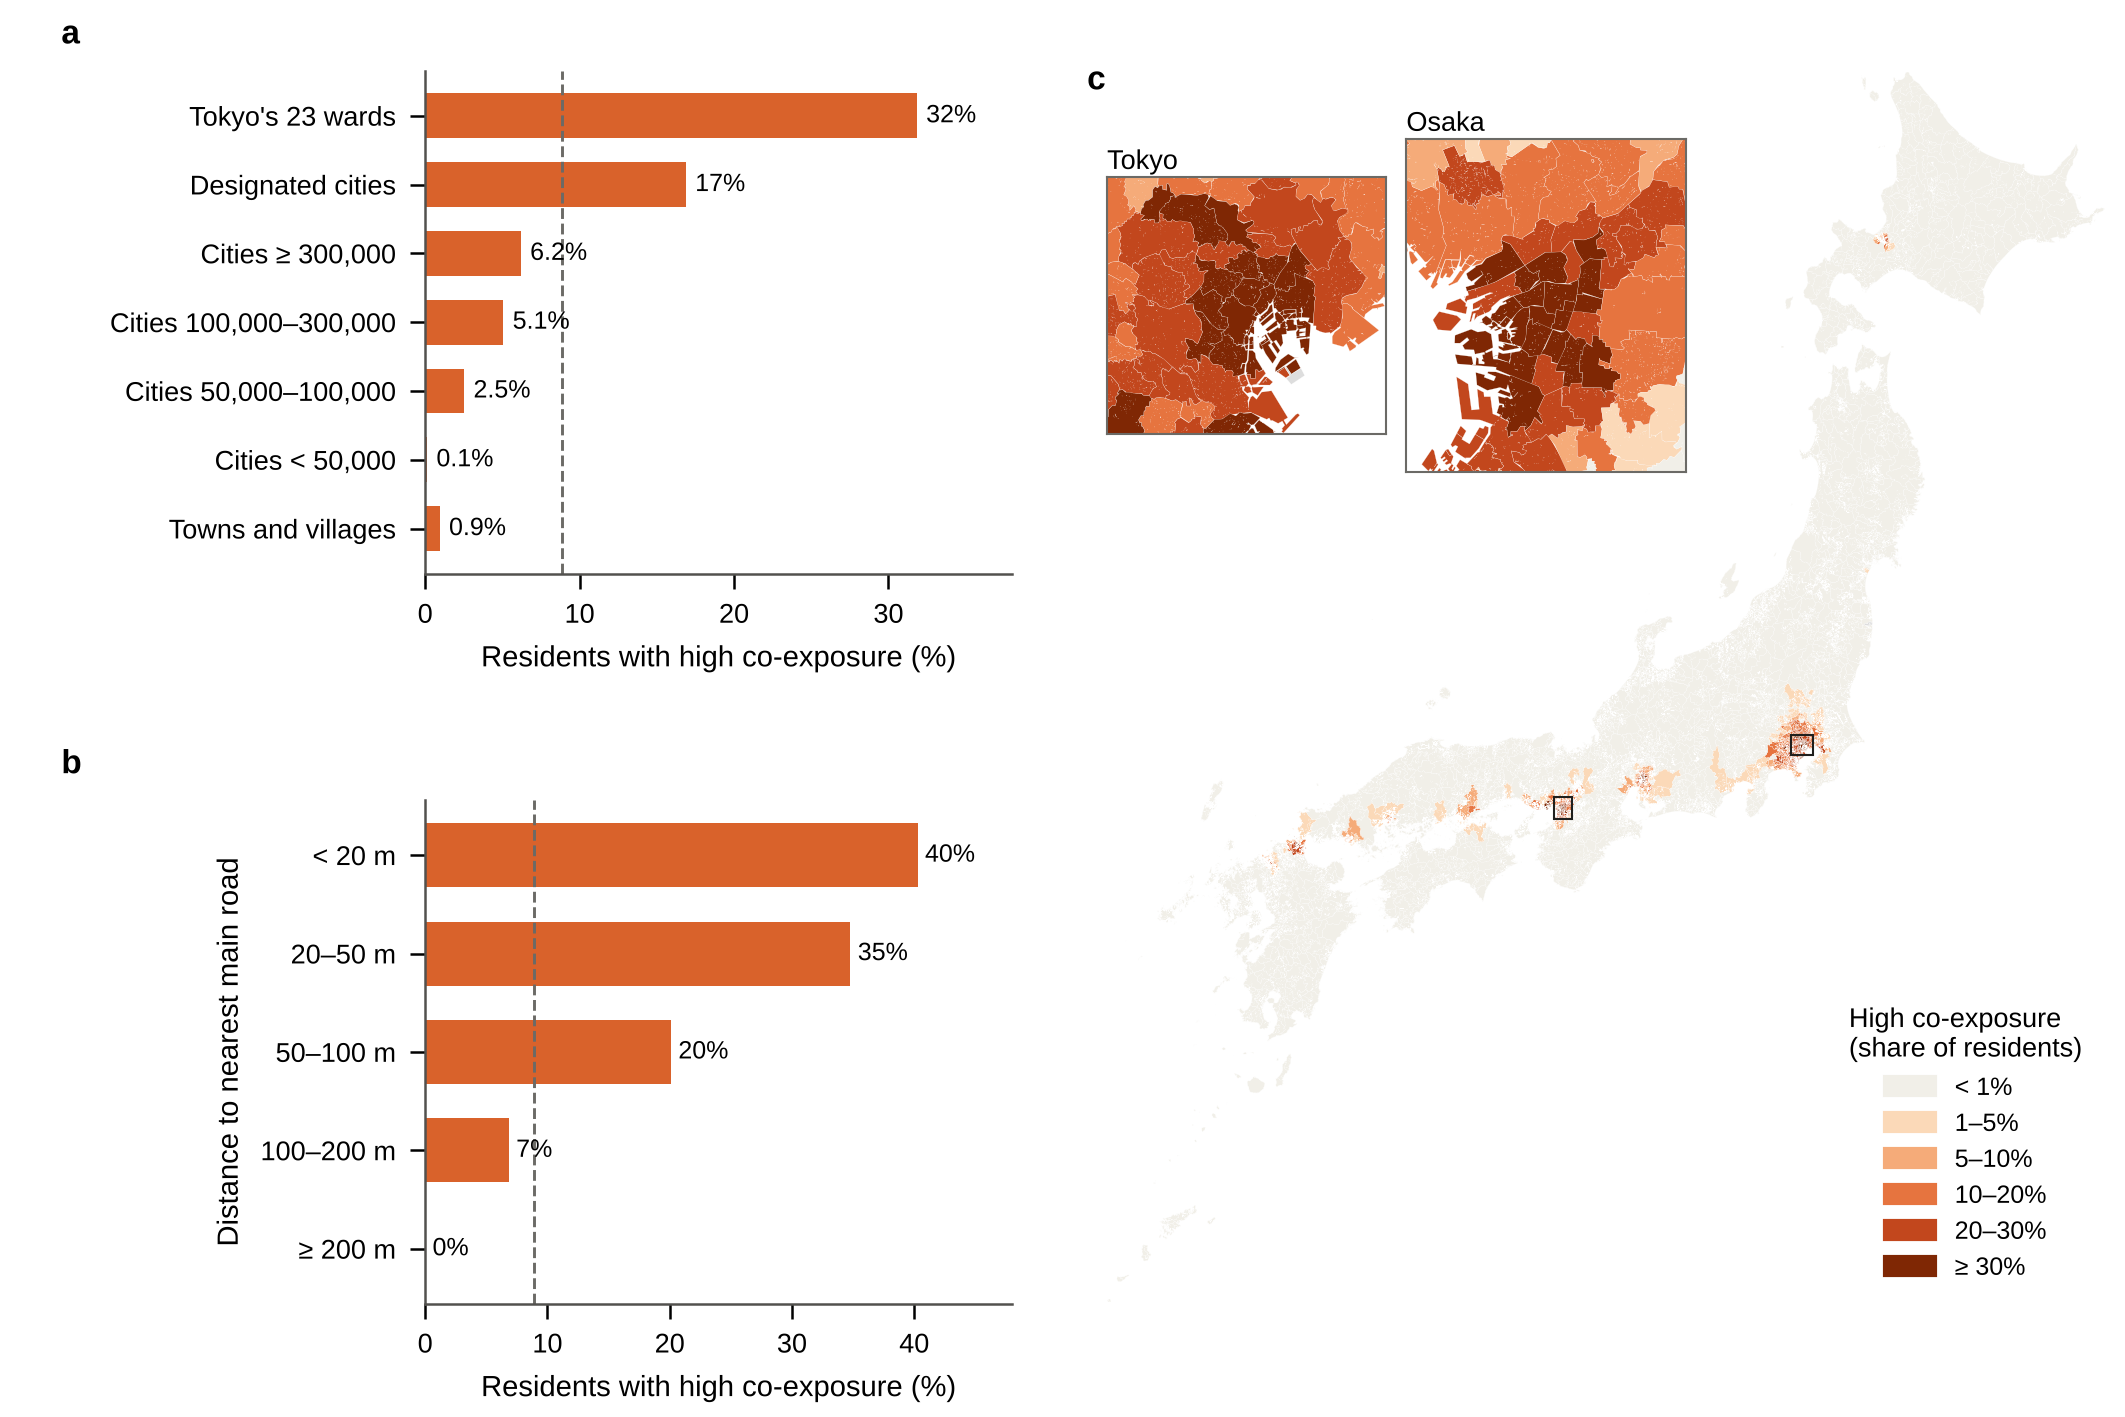
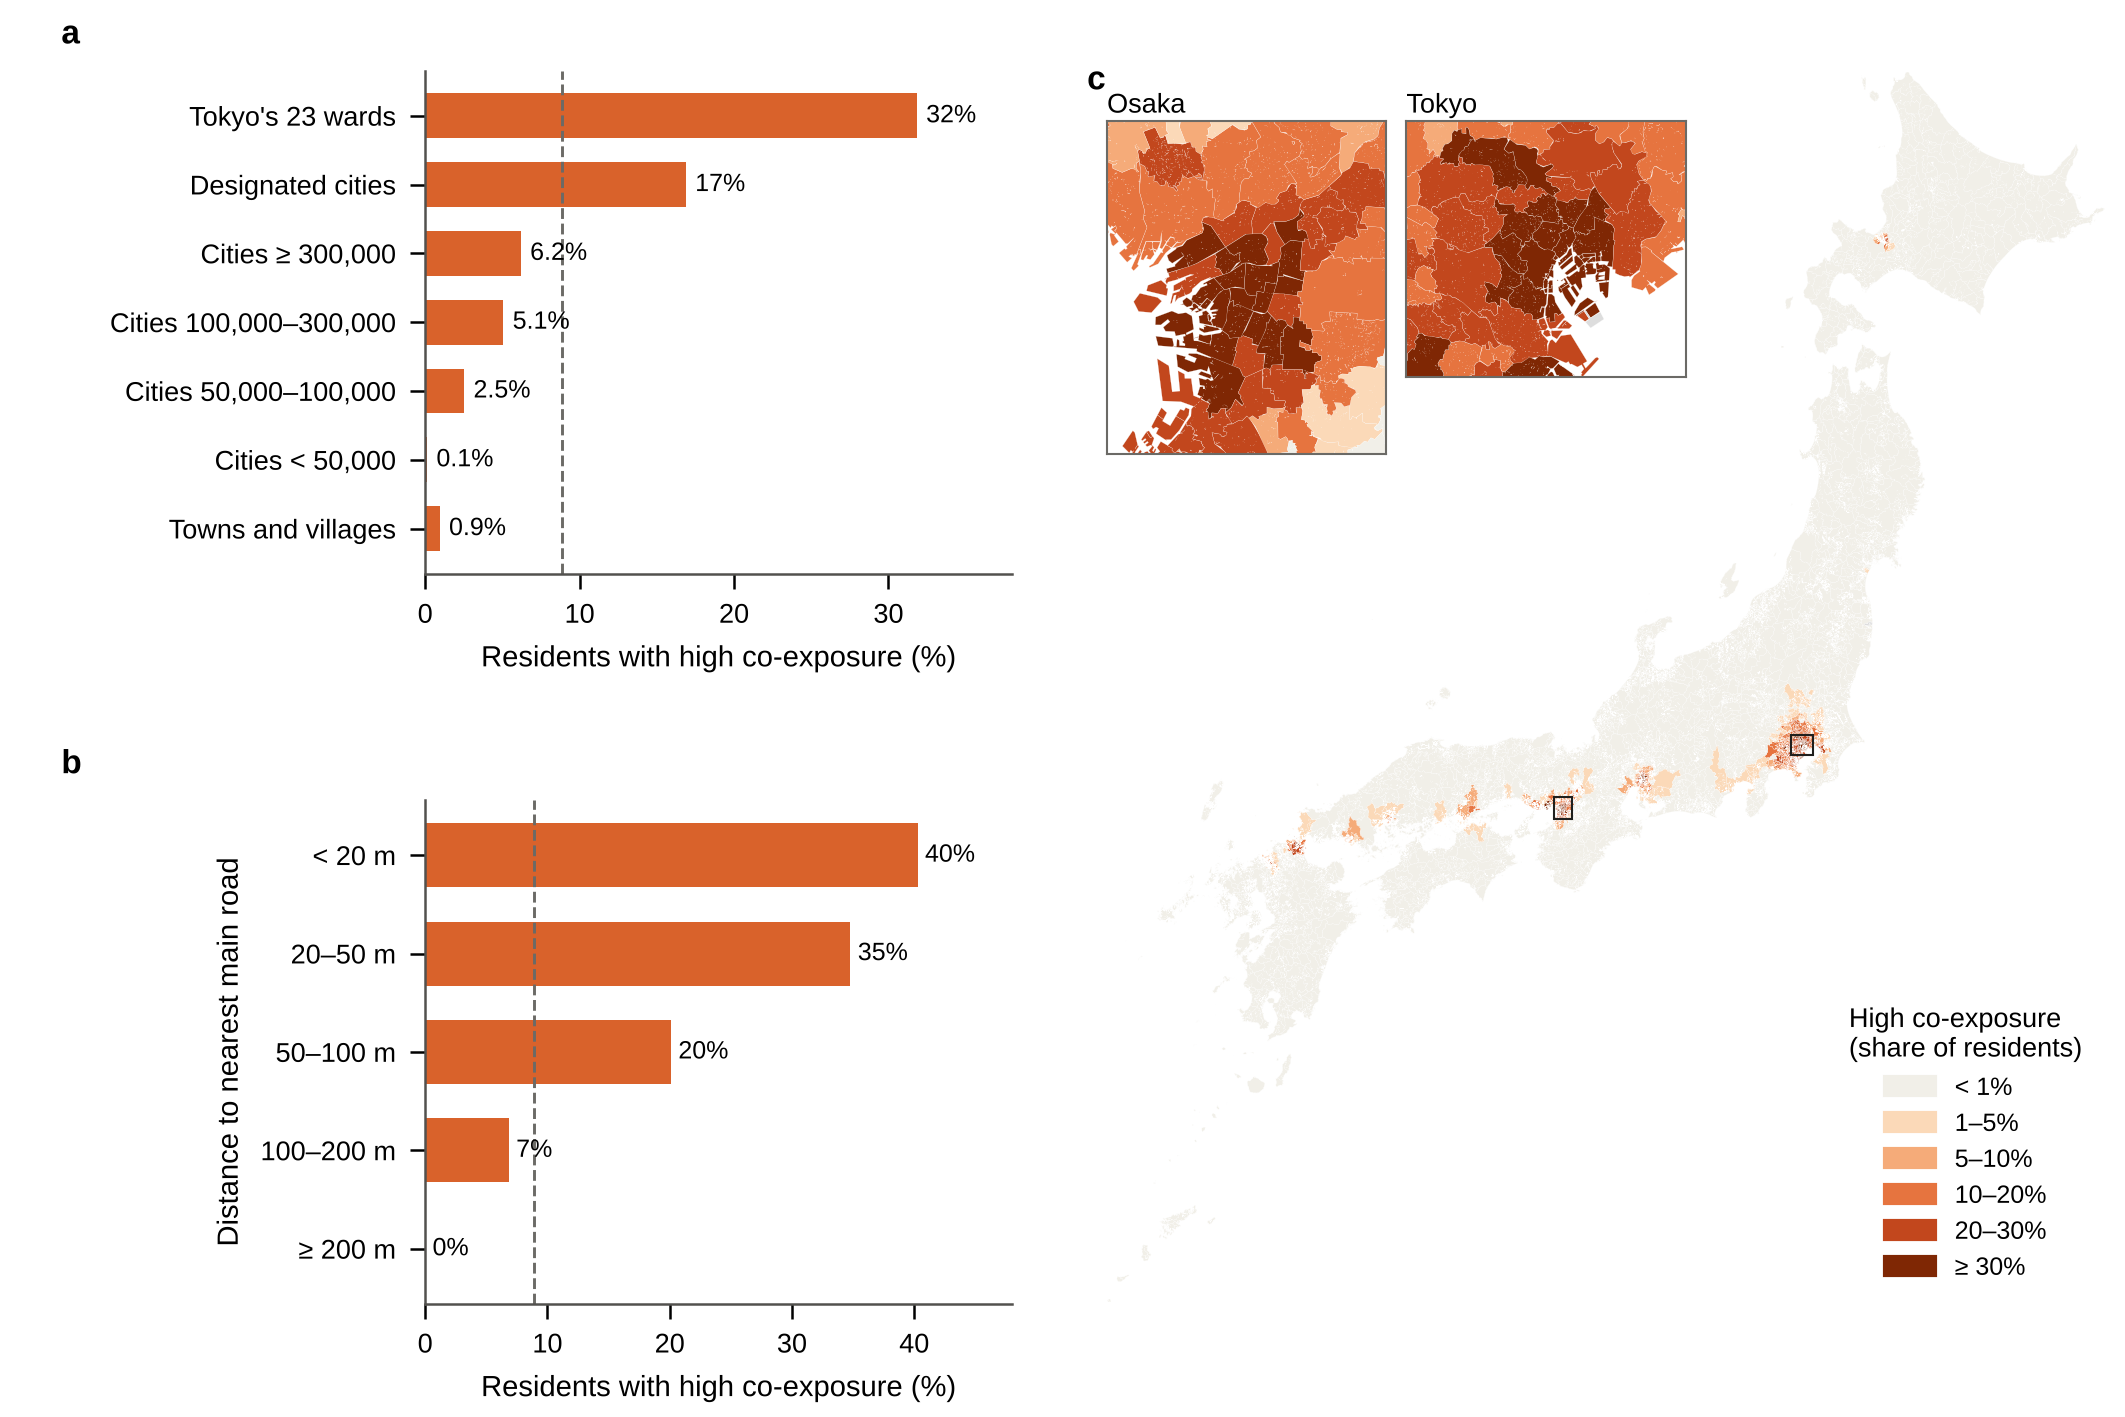
Figure 3: swap Osaka and Tokyo insets and align their tops

Changed region(s): [[0.4969, 0.0621, 0.8075, 0.3416]]

diff --git a/src/make_figures.py b/src/make_figures.py
@@ -169,11 +169,11 @@ draw(ax, G[~isl])
 xmin, ymin, xmax, ymax = G[~isl & ~G.muni.str.startswith('01')].total_bounds
 hx = G[G.muni.str.startswith('01')].total_bounds
 ax.set_xlim(xmin, max(xmax, hx[2])); ax.set_ylim(ymin, hx[3])
-for (lab, box, pos) in [('Tokyo', (139.55, 35.52, 139.95, 35.82), [0.0, 0.66, 0.28, 0.30]),
-                        ('Osaka', (135.35, 34.52, 135.65, 34.82), [0.30, 0.66, 0.28, 0.30])]:
+for (lab, box, pos) in [('Osaka', (135.35, 34.52, 135.65, 34.82), [0.0, 0.66, 0.28, 0.30]),
+                        ('Tokyo', (139.55, 35.52, 139.95, 35.82), [0.30, 0.66, 0.28, 0.30])]:
     bb = gpd.GeoSeries([sg.box(*box)], crs=4326).to_crs(6677).total_bounds
     ia = ax.inset_axes(pos); draw(ia, G.cx[bb[0]:bb[2], bb[1]:bb[3]])
-    ia.set_xlim(bb[0], bb[2]); ia.set_ylim(bb[1], bb[3]); ia.set_axis_on(); ia.set_xticks([]); ia.set_yticks([]); ia.set_xlabel(''); ia.set_ylabel('')
+    ia.set_xlim(bb[0], bb[2]); ia.set_ylim(bb[1], bb[3]); ia.set_axis_on(); ia.set_xticks([]); ia.set_yticks([]); ia.set_xlabel(''); ia.set_ylabel(''); ia.set_anchor('N')
     for s in ia.spines.values():
         s.set_visible(True); s.set_color(INK2); s.set_linewidth(.5)
     ia.set_title(lab, fontsize=6.5, loc='left', pad=2)
